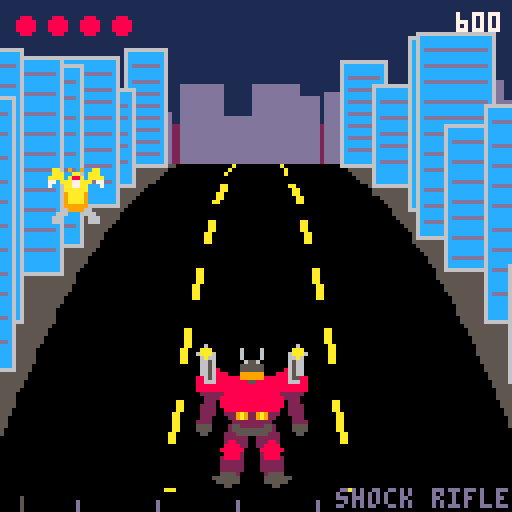
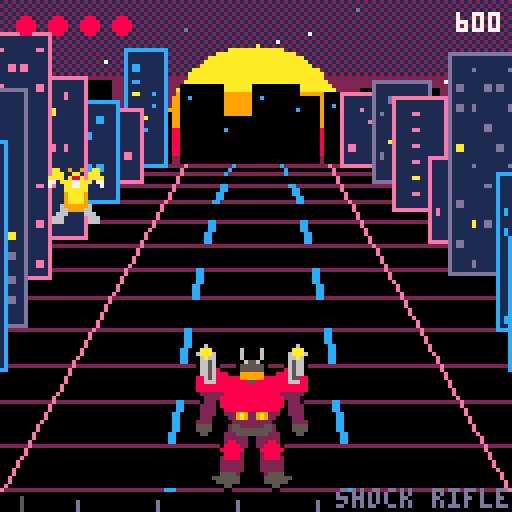
crestbeat-synth: itch clips, screenshots and cover re-recorded in the synthwave look; the page copy mentions the neon city and the haloed giants. Web build re-exported.

diff --git a/proj/crestbeat/itch/PAGE.md b/proj/crestbeat/itch/PAGE.md
@@ -23,6 +23,7 @@ You are a giant red robot at the foot of a hill. Aliens pour over the crest and 
 - About a minute and a half from the hill to the hive queen, nine stages of swarms, climbs and three giant fights
 - Five guns, five rhythms, all firing to the music
 - Hold down to see where the beat wants you next, and where the golden alien's route goes
+- A neon city at sunset: a synthwave sky, a glowing grid road, and each giant haloed by the setting sun as it fights you
 - Giants built from parts: flapping wings, stomping feet, cracks and smoke when you break a street
 - A ticket payout at the end, counted up and thrown out of the slot
 
@@ -40,7 +41,7 @@ Made in PICO-8.
 
 ## Page colours
 
-These come from the title screen's synthwave palette, so the page reads as the same neon night.
+These come from the game's synthwave palette, so the page reads as the same neon night.
 
 | Part of the page | Colour | Hex |
 |---|---|---|
@@ -63,11 +64,11 @@ Upload order on the page:
 
 1. `crestbeat_title.gif`: the title, the synthwave sun and the robot flying in
 2. `crestbeat_hill.gif`: the core loop, the swarm over the hill and the golden alien
-3. `crestbeat_titan.gif`: a giant fight: the shields falling, the bell ringing, the titan going down
+3. `crestbeat_titan.gif`: a giant fight: the titan haloed by the sun, the shields falling, the bell ringing, the titan going down
 4. `crestbeat_streets.gif`: civilians and the golden alien on the streets
 5. `crestbeat_queen.gif`: the hive queen (the last fight; a mild spoiler)
 6. `crestbeat_payout.gif`: the ticket payout
 
-Screenshots: the `.png` of each name. Cover image: `cover.png` (630x500), the title at 4x with its sky and grid carried out to the sides.
+Screenshots: the `.png` of each name. Cover image: `cover_630x500.png` (630x500), the title at 4x with its sky and grid carried out to the sides.
 
 Re-record with `py itch/capture.py`; it moves PICO-8's files off the Desktop into this folder. The web build is `release/crestbeat_web.zip` (`py export.py`); set the itch embed to 512x512.
